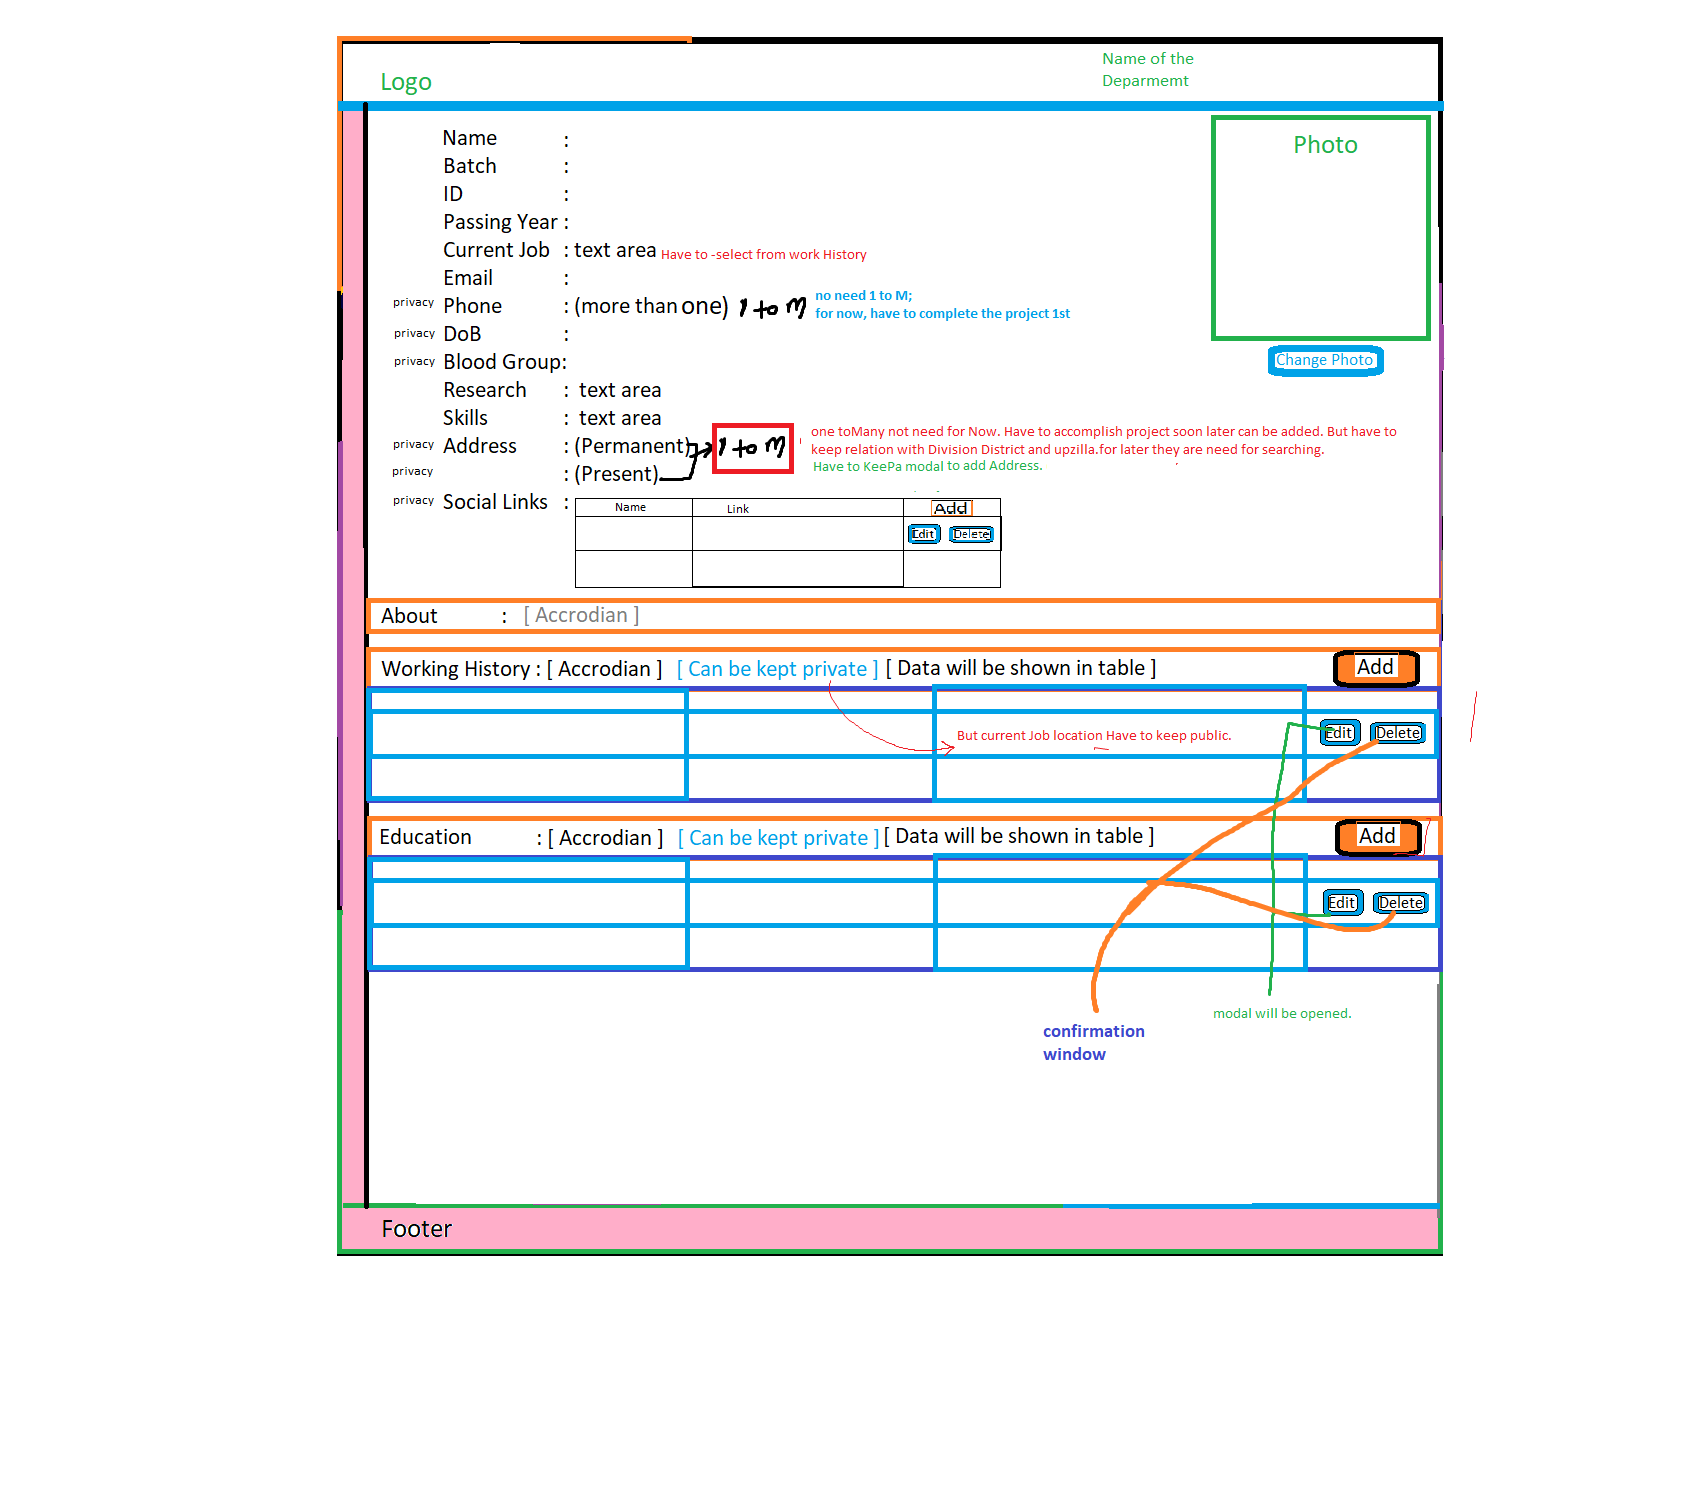
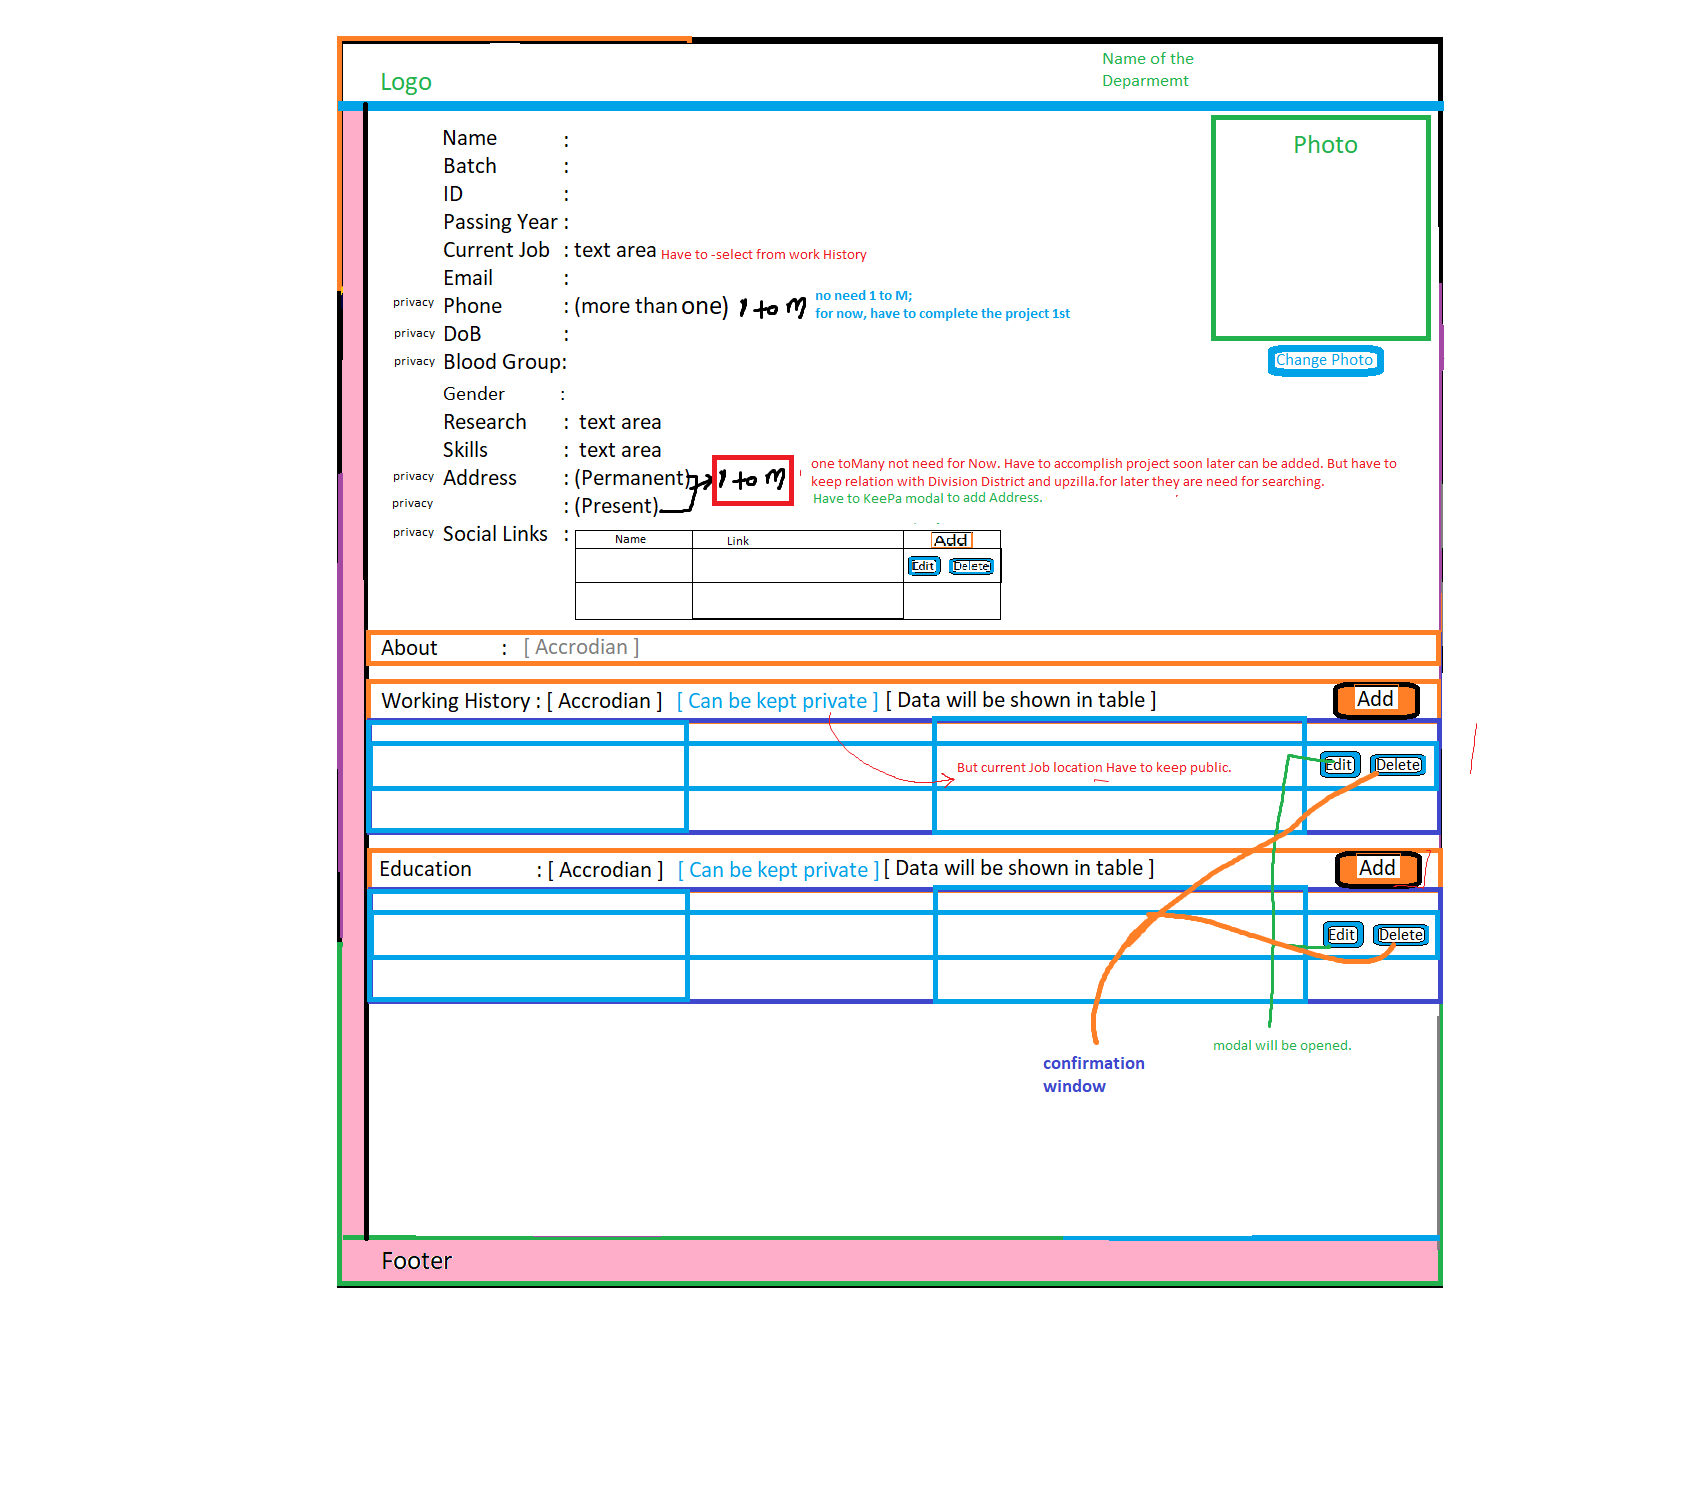
Profile UI changed, added : dept, gender, blood group  drop down, arranged them side by side; some migration added.

Changed region(s): [[0.2151, 0.2473, 0.8605, 0.7419], [0.1844, 0.8038, 0.8605, 0.8656]]

diff --git a/code/backend/database/migrations/2019_10_22_004824_profile_basic.php b/code/backend/database/migrations/2019_10_22_004824_profile_basic.php
@@ -1,0 +1,38 @@
+<?php
+
+use Illuminate\Support\Facades\Schema;
+use Illuminate\Database\Schema\Blueprint;
+use Illuminate\Database\Migrations\Migration;
+
+class ProfileBasic extends Migration
+{
+    /**
+     * Run the migrations.
+     *
+     * @return void
+     */
+    public function up()
+    {
+        Schema::create('profile_basic', function (Blueprint $table) {
+            $table->bigIncrements('id');
+            $table->bigIncrements('user_id');
+            $table->string('batch', 512);
+            $table->string('student_id', 512);
+            $table->string('dept', 512);
+            $table->string('first_name', 512);
+            $table->string('last_name', 512);
+            $table->string('', 512);
+            $table->timestamps();
+        });
+    }
+
+    /**
+     * Reverse the migrations.
+     *
+     * @return void
+     */
+    public function down()
+    {
+        Schema::dropIfExists('profile_basic');
+    }
+}

diff --git a/code/backend/database/migrations/2019_10_22_005324_profile_education.php b/code/backend/database/migrations/2019_10_22_005324_profile_education.php
@@ -1,0 +1,31 @@
+<?php
+
+use Illuminate\Support\Facades\Schema;
+use Illuminate\Database\Schema\Blueprint;
+use Illuminate\Database\Migrations\Migration;
+
+class ProfileEducation extends Migration
+{
+    /**
+     * Run the migrations.
+     *
+     * @return void
+     */
+    public function up()
+    {
+        Schema::create('profile_education', function (Blueprint $table) {
+            $table->bigIncrements('id');
+            $table->timestamps();
+        });
+    }
+
+    /**
+     * Reverse the migrations.
+     *
+     * @return void
+     */
+    public function down()
+    {
+        Schema::dropIfExists('profile_education');
+    }
+}

diff --git a/code/backend/database/migrations/2019_10_22_005246_profile_about.php b/code/backend/database/migrations/2019_10_22_005246_profile_about.php
@@ -1,0 +1,31 @@
+<?php
+
+use Illuminate\Support\Facades\Schema;
+use Illuminate\Database\Schema\Blueprint;
+use Illuminate\Database\Migrations\Migration;
+
+class ProfileAbout extends Migration
+{
+    /**
+     * Run the migrations.
+     *
+     * @return void
+     */
+    public function up()
+    {
+        Schema::create('profile_about', function (Blueprint $table) {
+            $table->bigIncrements('id');
+            $table->timestamps();
+        });
+    }
+
+    /**
+     * Reverse the migrations.
+     *
+     * @return void
+     */
+    public function down()
+    {
+        Schema::dropIfExists('profile_about');
+    }
+}

diff --git a/code/backend/database/migrations/2019_10_22_005352_profile_jobs.php b/code/backend/database/migrations/2019_10_22_005352_profile_jobs.php
@@ -1,0 +1,31 @@
+<?php
+
+use Illuminate\Support\Facades\Schema;
+use Illuminate\Database\Schema\Blueprint;
+use Illuminate\Database\Migrations\Migration;
+
+class ProfileJobs extends Migration
+{
+    /**
+     * Run the migrations.
+     *
+     * @return void
+     */
+    public function up()
+    {
+        Schema::create('profile_jobs', function (Blueprint $table) {
+            $table->bigIncrements('id');
+            $table->timestamps();
+        });
+    }
+
+    /**
+     * Reverse the migrations.
+     *
+     * @return void
+     */
+    public function down()
+    {
+        Schema::dropIfExists('profile_jobs');
+    }
+}
